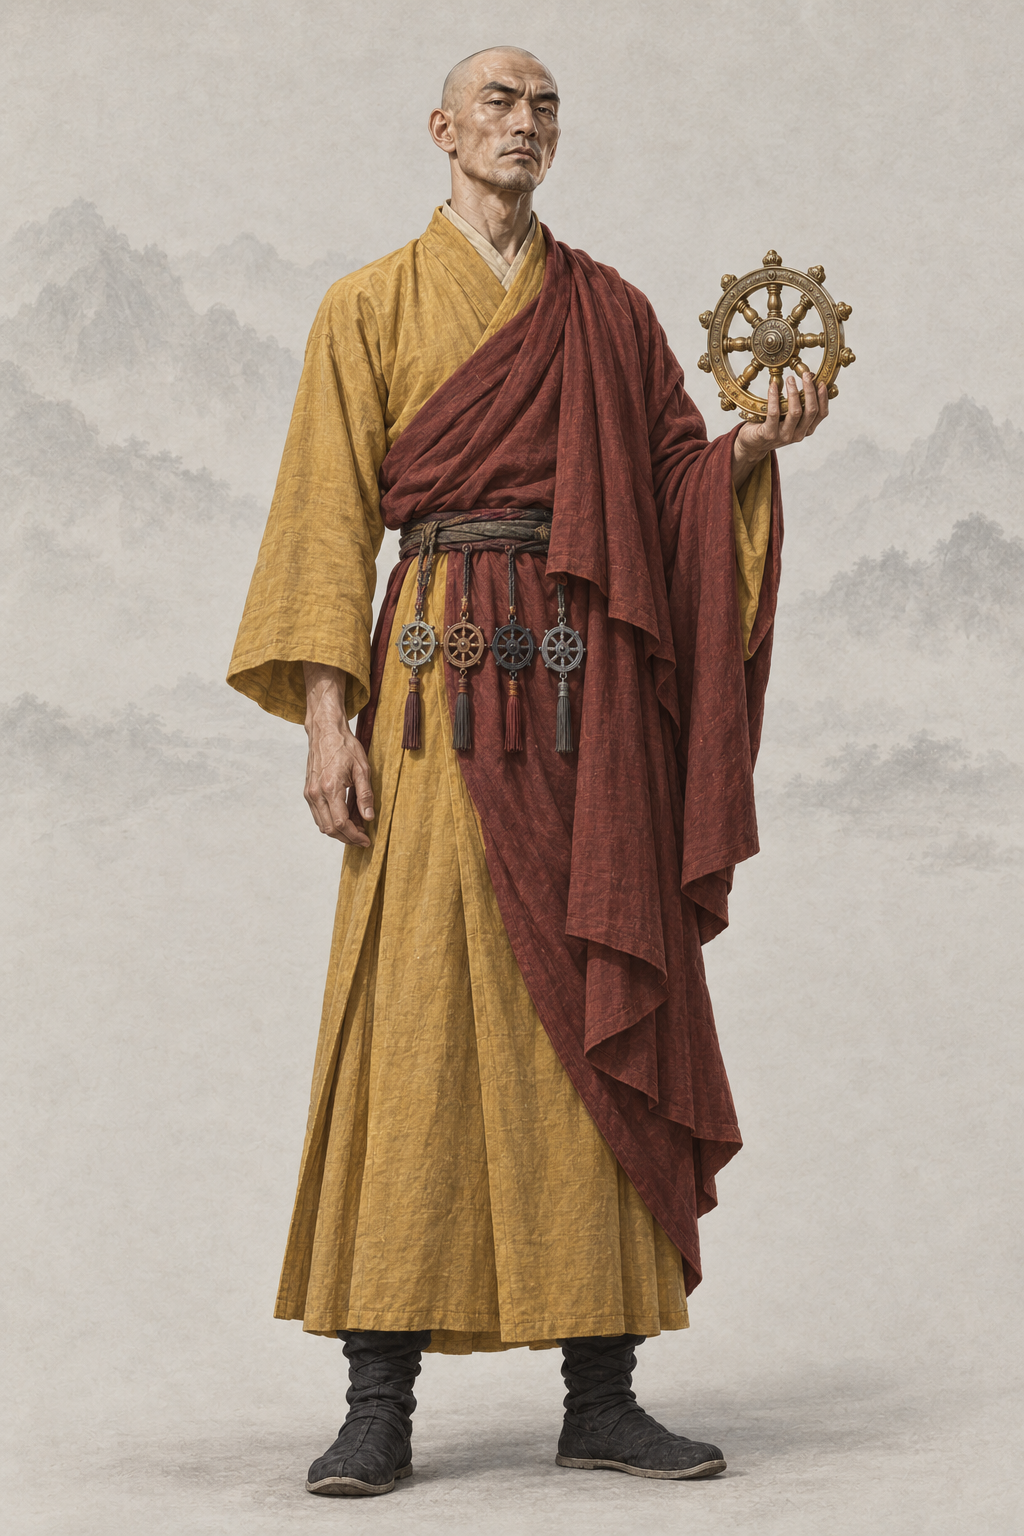
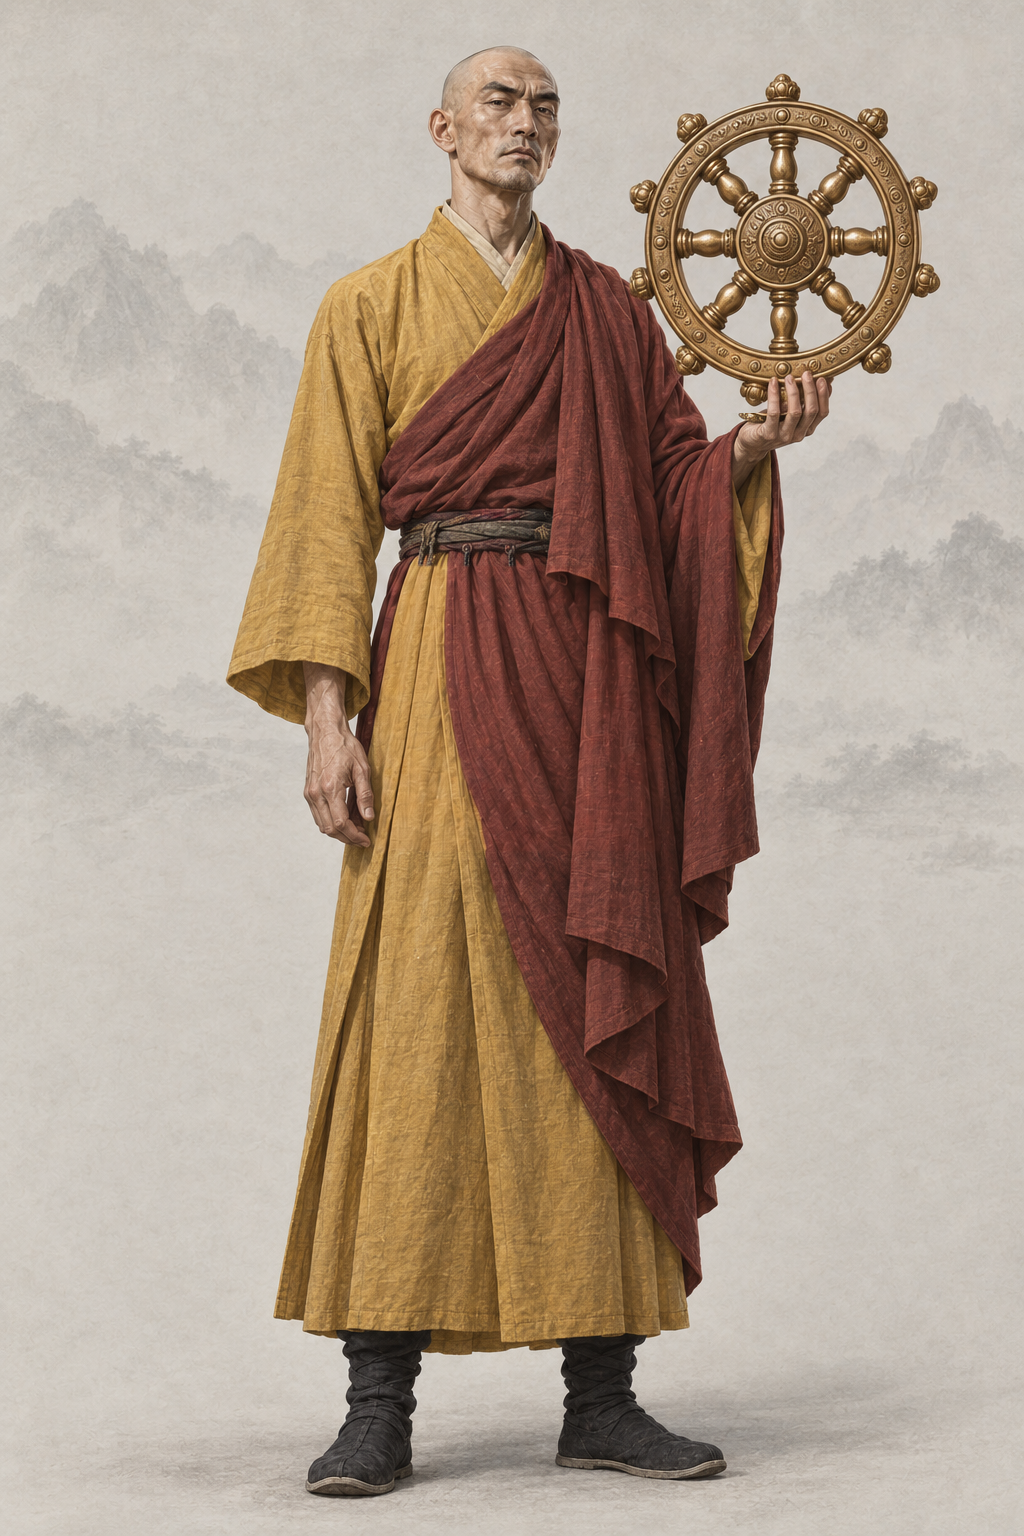
assets: AR-82 原著核对返修 金轮法王五轮改实战尺半大轮
原著摘句已同步提示词；已打开验图；蒙版外0像素变化。

Executed-By: Codex gpt-6.1-sol（AR-82）

Changed region(s): [[0.5938, 0.0312, 0.9375, 0.2812], [0.375, 0.3438, 0.5938, 0.5312]]

diff --git a/assets/default/prompts/characters/ch03-shendiao/npc_jinlunfawang.md b/assets/default/prompts/characters/ch03-shendiao/npc_jinlunfawang.md
@@ -118,3 +118,8 @@ FINAL CHECK: one FRONT-FACING tall and slender older man, UPRIGHT head and neck,
 - 采用作者授权宽松自查；偏差如实记录，candidate不代表approved。
 - 源PNG通常为1024×1536 RGB；其他原生2:3尺寸如实登记，原字节保存，不裁切、重编码、放大或去除溯源。
 - 完整请求、实际参考哈希及旧版本备份见 `.agents/coord/portrait-generation/identity-20261001/por_npc_jinlunfawang__ch03_elder_base.prepared.json`。
+
+## 原著依据
+
+- 《神雕侠侣》第十三回 武林盟主：“这金轮径长尺半”；https://www.xuges.com/wuxia/jinyong/sdxl/092.htm
+- AR-82 返修约束（本节优先于历史提示词）：只修改五轮：手中金轮改成径长一尺半（约一前臂半长）的完整大金轮，用原手掌承托；原腰间银铜铁铅四个小轮和吊坠全部去掉，另外四轮收入袍下不露，不能再画成小饰品。原脸、手、袍服其余区域及背景不动。
